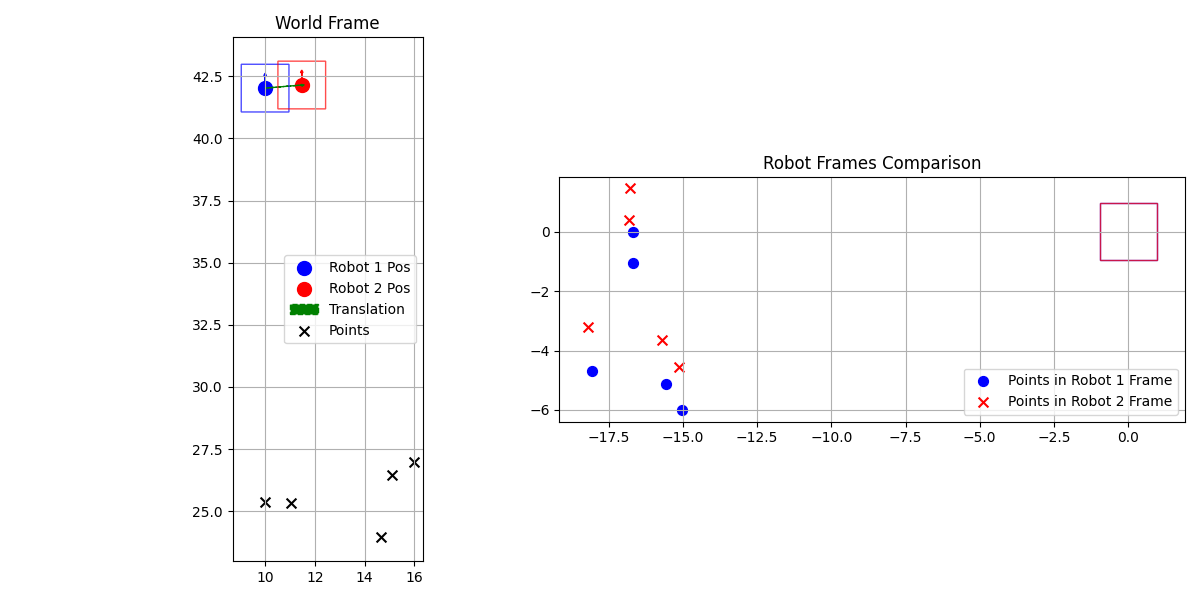
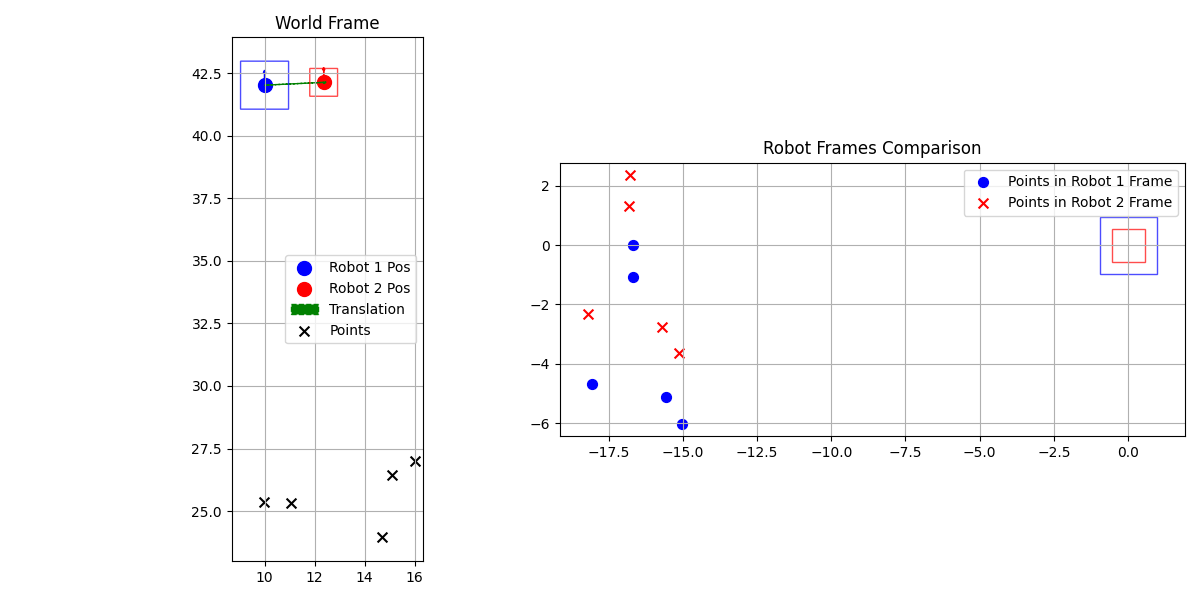
updates for debug of evaluation for mosaic

diff --git a/example/mosaic_dune_eval/mosaic_dune_eval.py b/example/mosaic_dune_eval/mosaic_dune_eval.py
@@ -90,7 +90,7 @@ class Timer:
             # print(f"nom_s_trans: {nom_s_trans}")
             scaled_nom_s = nom_s_trans.clone()
             # handle variable trailing dimensions (time, batch, etc.)
-            # scaled_nom_s[:2, ...] /= ratio
+            scaled_nom_s[:2, ...] /= ratio
             # print(f"scaled_nom_s: {scaled_nom_s}")
             # try:
             #     print(f"[mosaic] scaled_nom_s shape: {tuple(scaled_nom_s.shape)}")
@@ -169,6 +169,7 @@ def main(env_path, planner_path):
     print(neupan_planner.robot.G)
     print(neupan_planner.robot.h)
     nom_s = torch.stack([np_to_tensor(robot_state[:3]) for _ in range(pan.T+1)], dim=1)
+    # points in the map frame
     obs_points = np_to_tensor(points) if points is not None else None
     print(f"Number of obs points: {obs_points.shape[1]}, type of the obs points: {type(obs_points[:,0])}")
     print(f"Number of obs points: {nom_s.shape[1]}, type of the nom_s: {type(nom_s)}")
